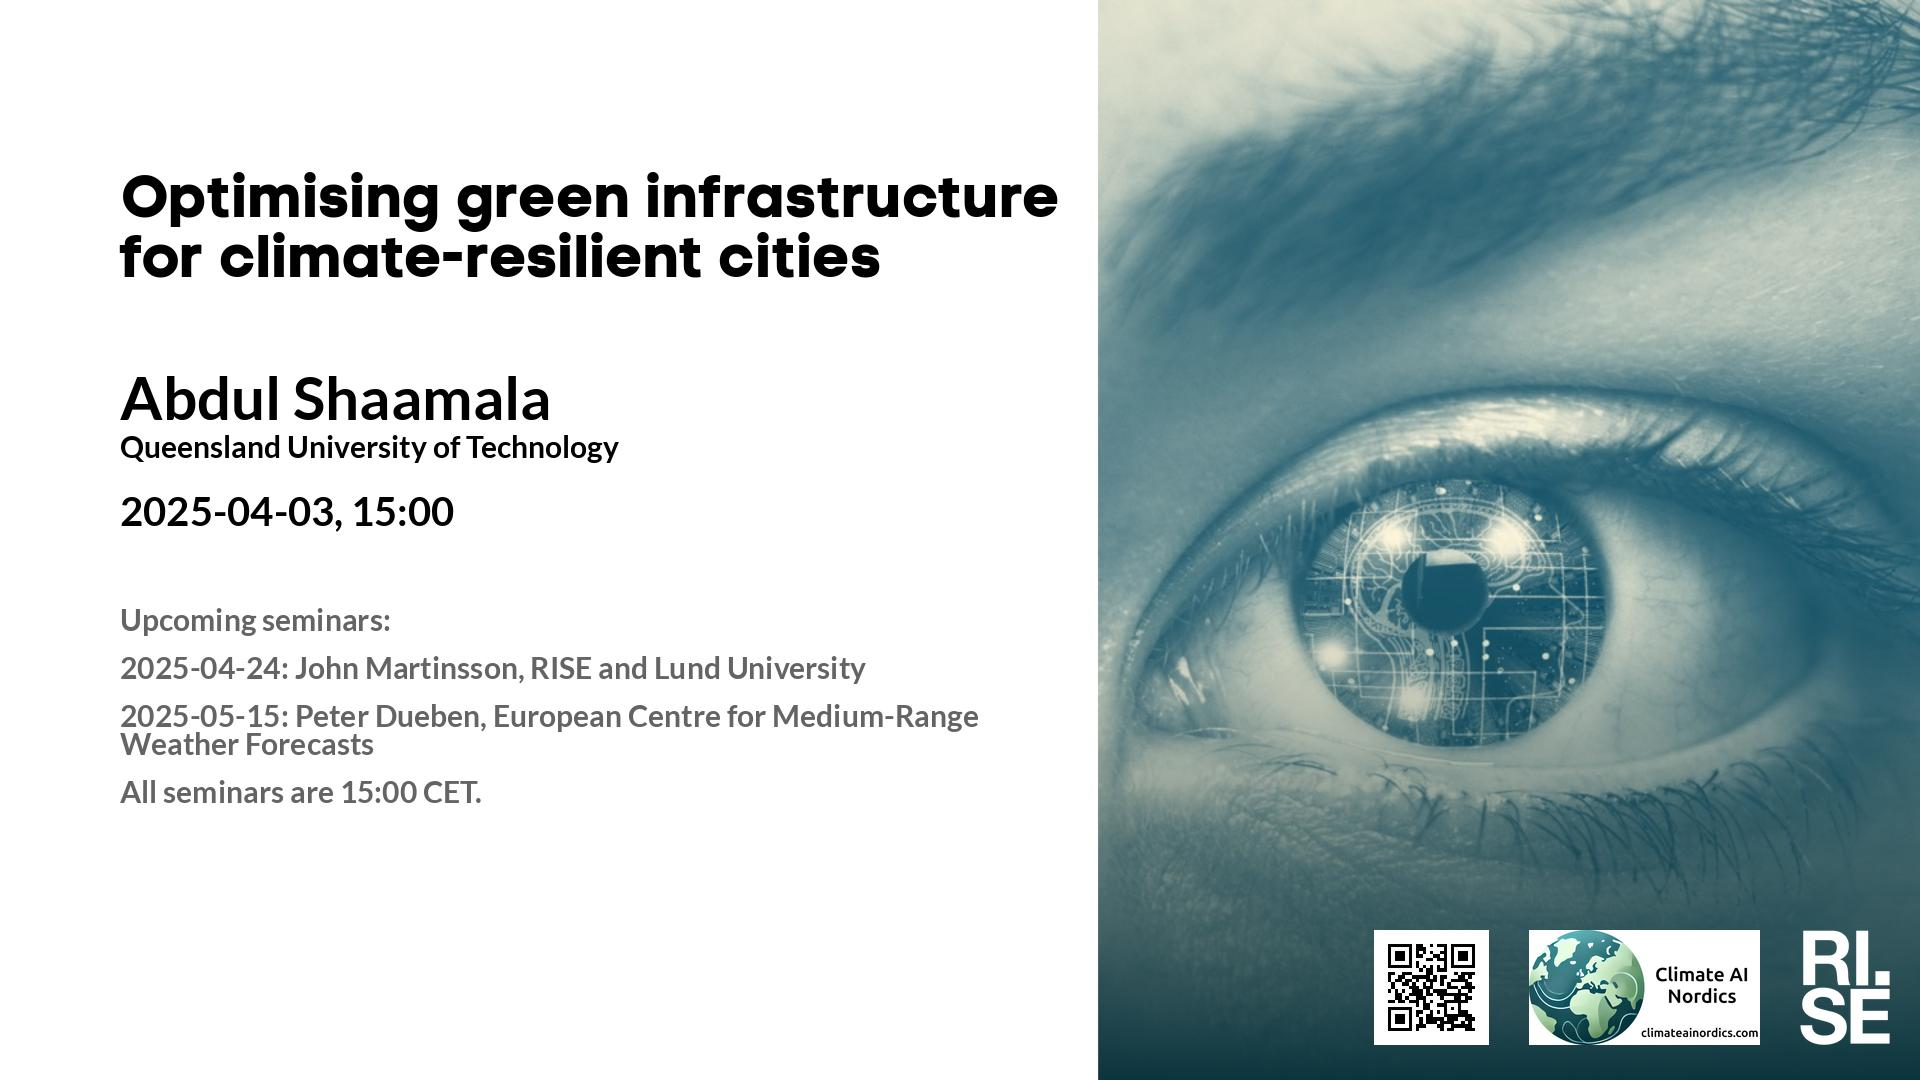
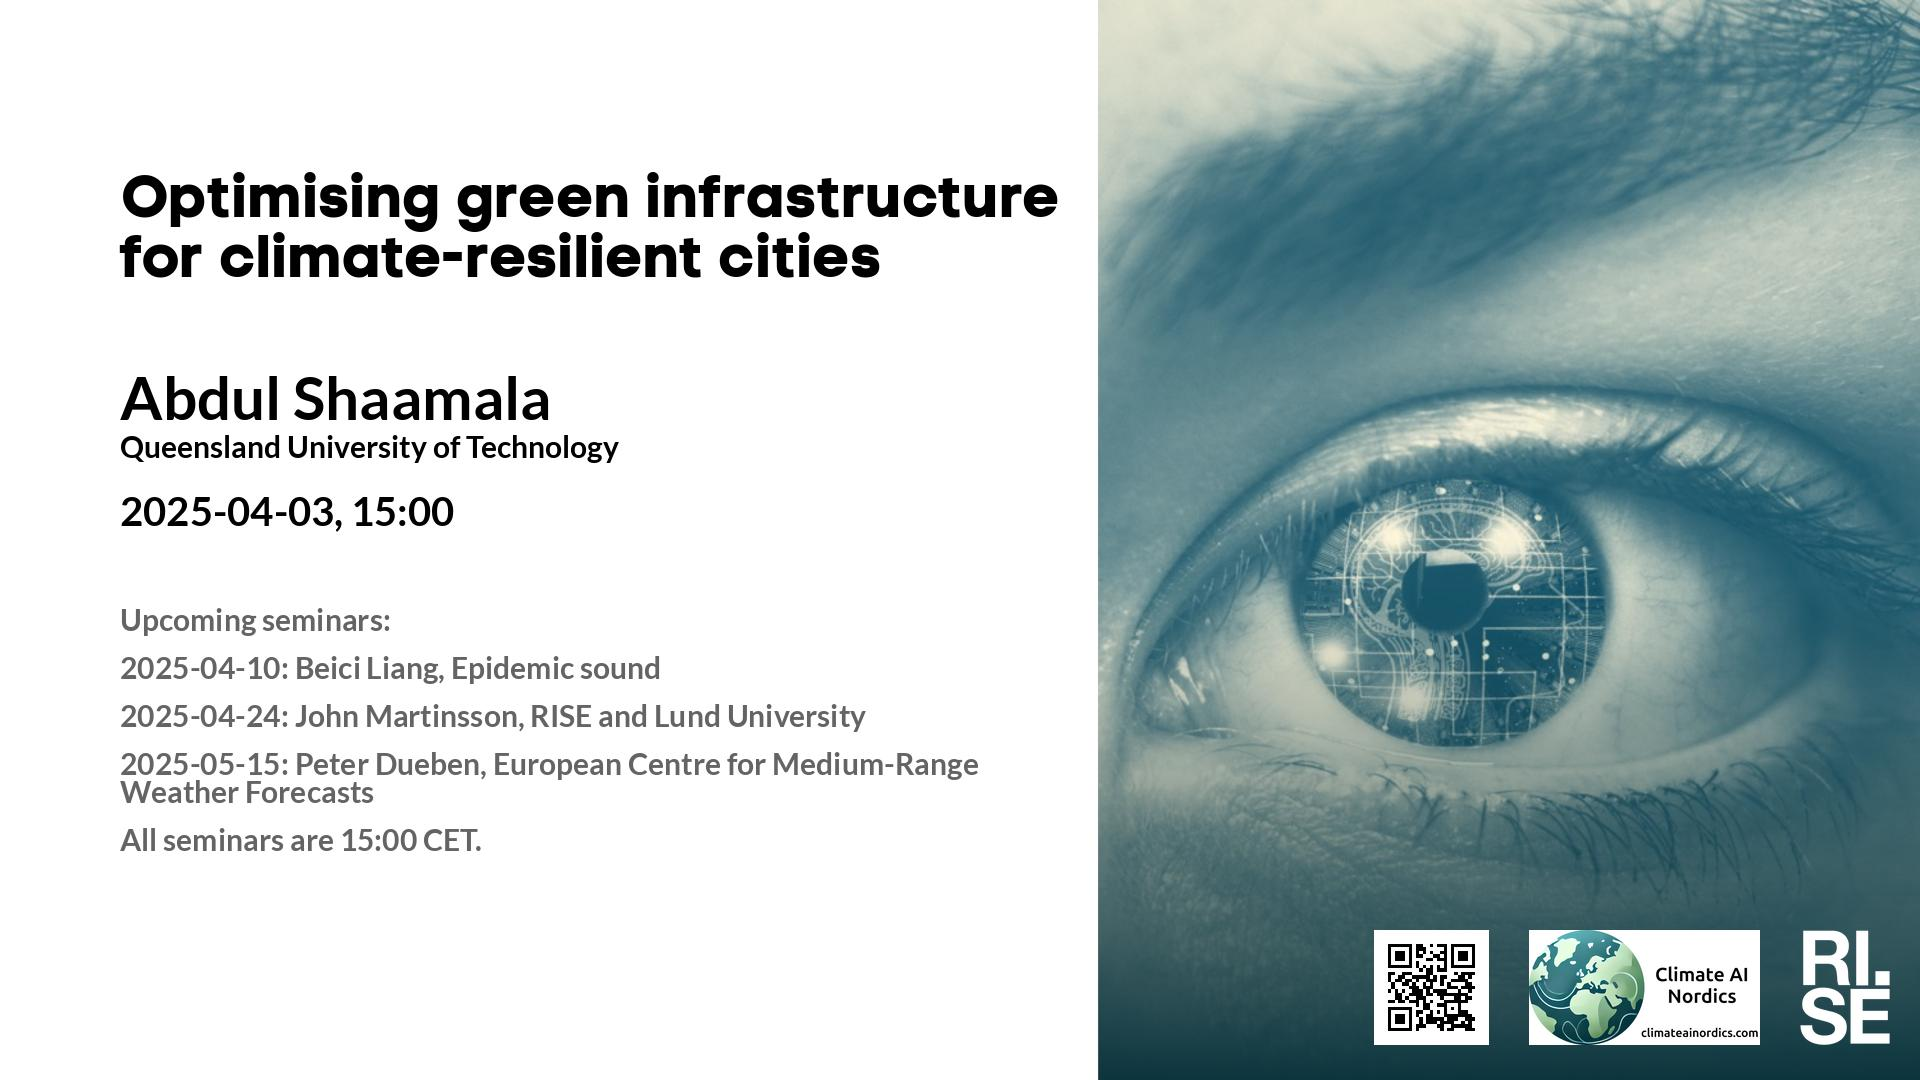
Updated plan on web site.

Changed region(s): [[0.0625, 0.6111, 0.5, 0.7944]]

diff --git a/lm/2025.md b/lm/2025.md
@@ -21,7 +21,7 @@ table {border-collapse: collapse;}
 |  2025-03-20  |  [Oriol Nieto, Adobe](2025-03-20.md)  |  [photo](2025-03-20-photo-oriol-nieto.jpg)  |  [social media ](2025-03-20-social-media-oriol-nieto.jpg)  |  [meeting backdrop ](2025-03-20-meeting-backdrop-oriol-nieto.jpg)  |  [youtube thumbnail ](2025-03-20-youtube-thumbnail-oriol-nieto.jpg)  |  STABP  |
 |  2025-03-27  |  [María J. Molina, University of Maryland](2025-03-27.md)  |  [photo](2025-03-27-photo-maria-j.-molina.jpg)  |  [social media ](2025-03-27-social-media-maria-j.-molina.jpg)  |  [meeting backdrop ](2025-03-27-meeting-backdrop-maria-j.-molina.jpg)  |  [youtube thumbnail ](2025-03-27-youtube-thumbnail-maria-j.-molina.jpg)  |  STABP  |
 |  2025-04-03  |  [Abdul Shaamala, Queensland University of Technology](2025-04-03.md)  |  [photo](2025-04-03-photo-abdul-shaamala.jpg)  |  [social media ](2025-04-03-social-media-abdul-shaamala.jpg)  |  [meeting backdrop ](2025-04-03-meeting-backdrop-abdul-shaamala.jpg)  |  [youtube thumbnail ](2025-04-03-youtube-thumbnail-abdul-shaamala.jpg)  |  STABP  |
-| <span style="color:grey"> 2025-04-10 </span> | <span style="color:grey"> Beici L. ? </span> | <span style="color:grey">  </span> | <span style="color:grey">  </span> | <span style="color:grey">  </span> | <span style="color:grey">  </span> | <span style="color:grey"> S~~TABP~~ </span> |
+|  2025-04-10  |  [Beici Liang, Epidemic sound](2025-04-10.md)  |    |  [social media ](2025-04-10-social-media-beici-liang.jpg)  |  [meeting backdrop ](2025-04-10-meeting-backdrop-beici-liang.jpg)  |  [youtube thumbnail ](2025-04-10-youtube-thumbnail-beici-liang.jpg)  |  S~~TABP~~  |
 | <span style="color:red"> 2025-04-17 </span> | <span style="color:red"> Holy Thursday </span> | <span style="color:red">  </span> | <span style="color:red">  </span> | <span style="color:red">  </span> | <span style="color:red">  </span> | <span style="color:red"> CANCELLED </span> |
 |  2025-04-24  |  [John Martinsson, RISE and Lund University](2025-04-24.md)  |  [photo](2025-04-24-photo-john-martinsson.jpg)  |  [social media ](2025-04-24-social-media-john-martinsson.jpg)  |  [meeting backdrop ](2025-04-24-meeting-backdrop-john-martinsson.jpg)  |  [youtube thumbnail ](2025-04-24-youtube-thumbnail-john-martinsson.jpg)  |  S~~TA~~BP  |
 | <span style="color:red"> 2025-05-01 </span> | <span style="color:red"> International Workers' Day </span> | <span style="color:red">  </span> | <span style="color:red">  </span> | <span style="color:red">  </span> | <span style="color:red">  </span> | <span style="color:red"> CANCELLED </span> |

diff --git a/lm/index.md b/lm/index.md
@@ -21,7 +21,7 @@ table {border-collapse: collapse;}
 |  2025-03-20  |  [Oriol Nieto, Adobe](2025-03-20.md)  |  [photo](2025-03-20-photo-oriol-nieto.jpg)  |  [social media ](2025-03-20-social-media-oriol-nieto.jpg)  |  [meeting backdrop ](2025-03-20-meeting-backdrop-oriol-nieto.jpg)  |  [youtube thumbnail ](2025-03-20-youtube-thumbnail-oriol-nieto.jpg)  |  STABP  |
 |  2025-03-27  |  [María J. Molina, University of Maryland](2025-03-27.md)  |  [photo](2025-03-27-photo-maria-j.-molina.jpg)  |  [social media ](2025-03-27-social-media-maria-j.-molina.jpg)  |  [meeting backdrop ](2025-03-27-meeting-backdrop-maria-j.-molina.jpg)  |  [youtube thumbnail ](2025-03-27-youtube-thumbnail-maria-j.-molina.jpg)  |  STABP  |
 |  2025-04-03  |  [Abdul Shaamala, Queensland University of Technology](2025-04-03.md)  |  [photo](2025-04-03-photo-abdul-shaamala.jpg)  |  [social media ](2025-04-03-social-media-abdul-shaamala.jpg)  |  [meeting backdrop ](2025-04-03-meeting-backdrop-abdul-shaamala.jpg)  |  [youtube thumbnail ](2025-04-03-youtube-thumbnail-abdul-shaamala.jpg)  |  STABP  |
-| <span style="color:grey"> 2025-04-10 </span> | <span style="color:grey"> Beici L. ? </span> | <span style="color:grey">  </span> | <span style="color:grey">  </span> | <span style="color:grey">  </span> | <span style="color:grey">  </span> | <span style="color:grey"> S~~TABP~~ </span> |
+|  2025-04-10  |  [Beici Liang, Epidemic sound](2025-04-10.md)  |    |  [social media ](2025-04-10-social-media-beici-liang.jpg)  |  [meeting backdrop ](2025-04-10-meeting-backdrop-beici-liang.jpg)  |  [youtube thumbnail ](2025-04-10-youtube-thumbnail-beici-liang.jpg)  |  S~~TABP~~  |
 | <span style="color:red"> 2025-04-17 </span> | <span style="color:red"> Holy Thursday </span> | <span style="color:red">  </span> | <span style="color:red">  </span> | <span style="color:red">  </span> | <span style="color:red">  </span> | <span style="color:red"> CANCELLED </span> |
 |  2025-04-24  |  [John Martinsson, RISE and Lund University](2025-04-24.md)  |  [photo](2025-04-24-photo-john-martinsson.jpg)  |  [social media ](2025-04-24-social-media-john-martinsson.jpg)  |  [meeting backdrop ](2025-04-24-meeting-backdrop-john-martinsson.jpg)  |  [youtube thumbnail ](2025-04-24-youtube-thumbnail-john-martinsson.jpg)  |  S~~TA~~BP  |
 | <span style="color:red"> 2025-05-01 </span> | <span style="color:red"> International Workers' Day </span> | <span style="color:red">  </span> | <span style="color:red">  </span> | <span style="color:red">  </span> | <span style="color:red">  </span> | <span style="color:red"> CANCELLED </span> |

diff --git a/lm/statistics-2025.md b/lm/statistics-2025.md
@@ -10,11 +10,11 @@ title: Learning Machines Statistics 2025
 
 
 
-## 12 speakers
+## 13 speakers
 
-Abdul Shaamala, Abdulhakim Abdi, Amal Nammouchi, Atakan Aral, Benjamin Cretois, John Martinsson, María J. Molina, Newton Mwai Kinyanjui, Oriol Nieto, Oscar Täckström, Peter Dueben, Sherrie Wang
+Abdul Shaamala, Abdulhakim Abdi, Amal Nammouchi, Atakan Aral, Beici Liang, Benjamin Cretois, John Martinsson, María J. Molina, Newton Mwai Kinyanjui, Oriol Nieto, Oscar Täckström, Peter Dueben, Sherrie Wang
 
-## 12 affiliations
+## 13 affiliations
 
-Adobe, Chalmers University of Technology, European Centre for Medium-Range Weather Forecasts, Karlstad University and AfriClimate AI, Lund University, MIT, Norwegian Institute for Nature Research, Queensland University of Technology, RISE and Lund University, Sana Labs, University of Maryland, University of Vienna
+Adobe, Chalmers University of Technology, Epidemic sound, European Centre for Medium-Range Weather Forecasts, Karlstad University and AfriClimate AI, Lund University, MIT, Norwegian Institute for Nature Research, Queensland University of Technology, RISE and Lund University, Sana Labs, University of Maryland, University of Vienna
 

diff --git a/lm/2025-04-10.md b/lm/2025-04-10.md
@@ -1,0 +1,31 @@
+---
+layout: default
+metatags: "<meta name=\"robots\" content=\"noindex,nofollow\" />"
+---
+ 
+Welcome to this week's Learning Machines seminar.
+
+**Title:** N/A
+
+**Speaker:** Beici Liang, Epidemic sound
+
+**Abstract:** N/A
+
+**About the speaker:** N/A
+
+**Location:** This is an online seminar. Connect using Zoom.
+
+**Date:** 2025-04-10 15:00
+
+**Zoom link:** [N/A](N/A)
+
+**Upcoming seminars:**
+
+* 2025-04-24: John Martinsson, RISE and Lund University
+* 2025-05-15: Peter Dueben, European Centre for Medium-Range Weather Forecasts
+* All seminars are 15:00 CET.
+
+More information and coming seminars: [https://ri.se/lm-sem](https://ri.se/lm-sem)
+
+-- The Learning Machines Team
+

diff --git a/lm/2025-03-20.md b/lm/2025-03-20.md
@@ -29,8 +29,8 @@ Welcome to this week's Learning Machines seminar.
 
 * 2025-03-27: María J. Molina, University of Maryland
 * 2025-04-03: Abdul Shaamala, Queensland University of Technology
+* 2025-04-10: Beici Liang, Epidemic sound
 * 2025-04-24: John Martinsson, RISE and Lund University
-* 2025-05-15: Peter Dueben, European Centre for Medium-Range Weather Forecasts
 * All seminars are 15:00 CET.
 
 More information and coming seminars: [https://ri.se/lm-sem](https://ri.se/lm-sem)

diff --git a/lm/2025-03-27.md b/lm/2025-03-27.md
@@ -24,6 +24,7 @@ This seminar is a collaboration between RISE and Climate AI Nordics -- [climatea
 **Upcoming seminars:**
 
 * 2025-04-03: Abdul Shaamala, Queensland University of Technology
+* 2025-04-10: Beici Liang, Epidemic sound
 * 2025-04-24: John Martinsson, RISE and Lund University
 * 2025-05-15: Peter Dueben, European Centre for Medium-Range Weather Forecasts
 * All seminars are 15:00 CET.

diff --git a/lm/2025-04-03.md b/lm/2025-04-03.md
@@ -25,6 +25,7 @@ This talk explores how artificial intelligence (AI), machine learning (ML), and 
 
 **Upcoming seminars:**
 
+* 2025-04-10: Beici Liang, Epidemic sound
 * 2025-04-24: John Martinsson, RISE and Lund University
 * 2025-05-15: Peter Dueben, European Centre for Medium-Range Weather Forecasts
 * All seminars are 15:00 CET.
